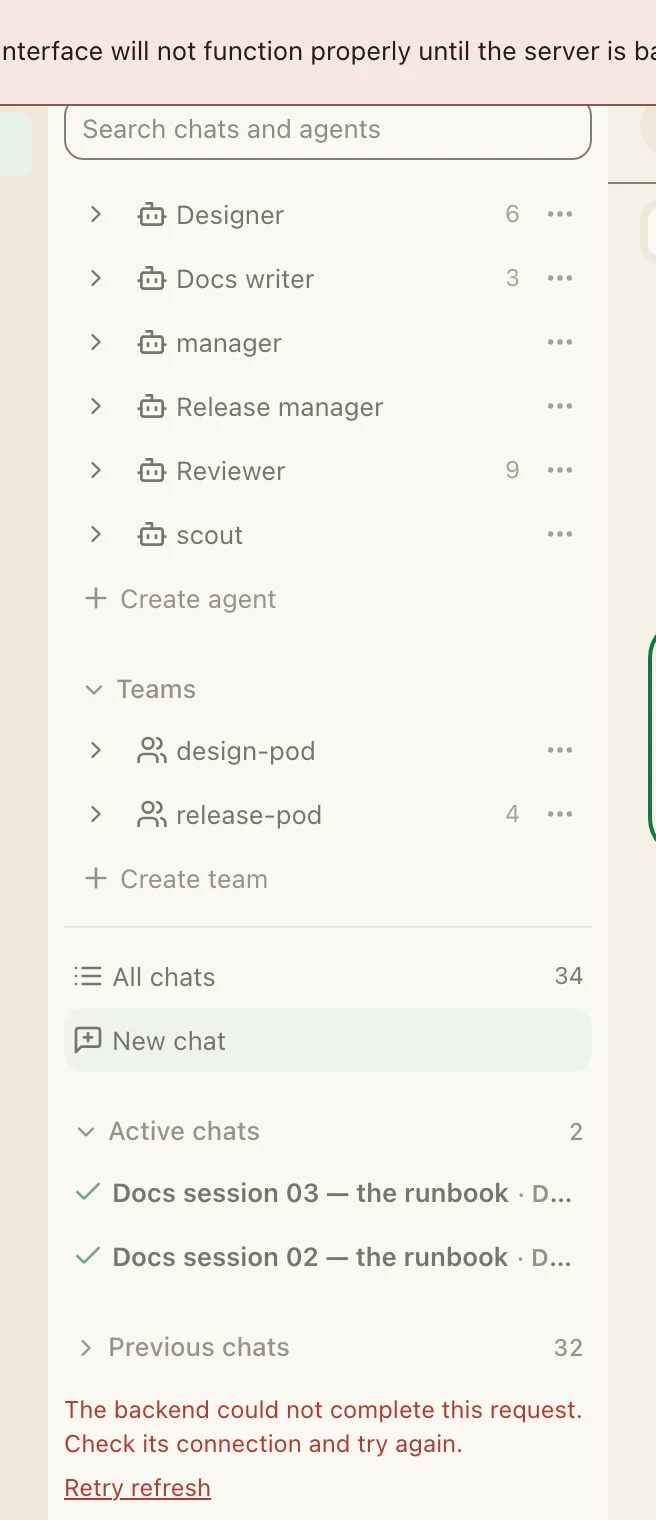
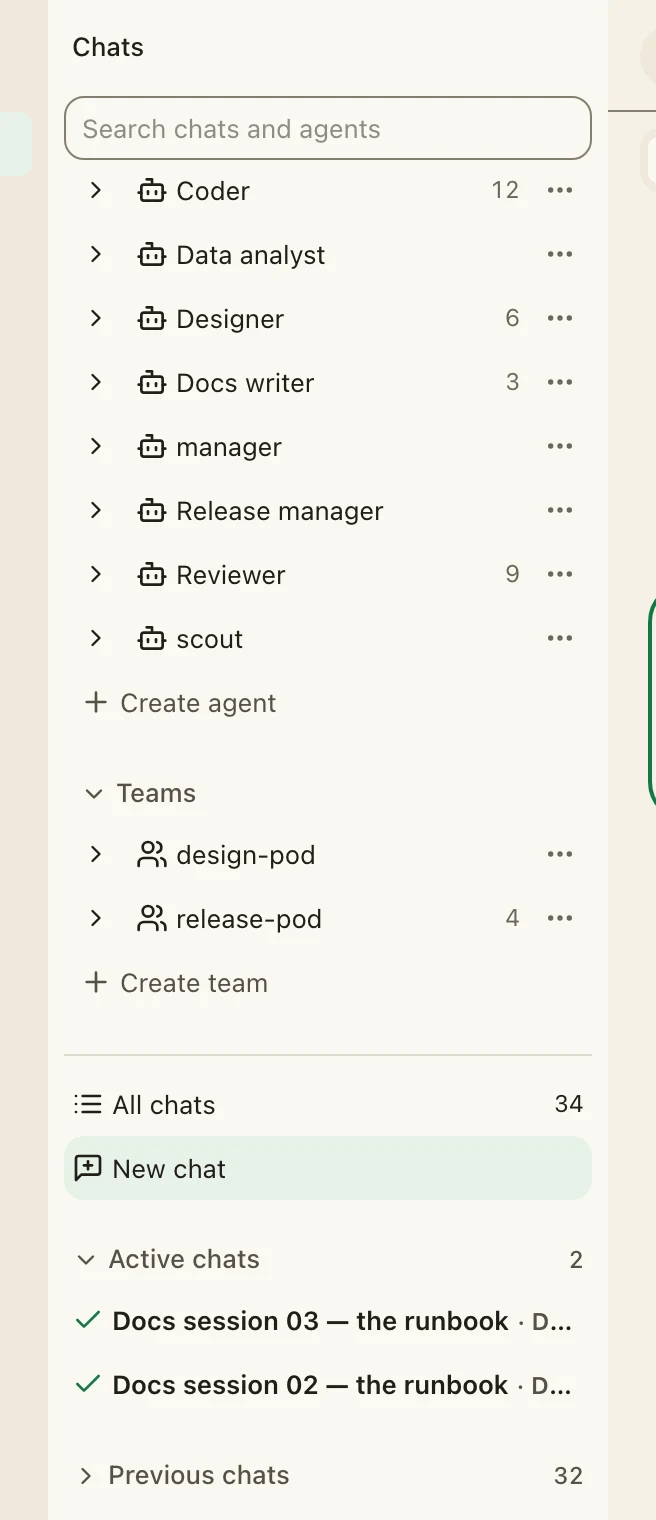
docs(evidence): re-capture the New chat row's light states, healthy
Two light-theme frames were published with the isolated backend down: the
sidebar carried "The backend could not complete this request. ... Retry refresh"
plus the window-level connectivity banner, every list label rendered dimmed, and
the row sat at y=503.83 against 568 in the other fourteen frames because Tab-ing
to it scrolled the panel by 64.17px. Both were re-taken with the backend up, and
the whole `after` set with them, so the set is one run per theme; six of the
eight `after` frames are byte-identical to the previous revision, which is what
says the surface did not move under the re-capture.

The rig needed a real fix to get here, and it is the reason the frames were
degraded rather than merely unlucky: the app's own `connect-src` CSP admits only
ports 1111 and 8080, so a cross-origin fetch to an isolated backend on any other
port is refused by the page - and the first thing the app fetches that way is
`/health`, which `useConnectivityStatus` polls every 5s. Unanswered, it raises
the connectivity banner for the whole run. The dev server now answers `/health`
on the dev origin by proxying it to this harness's backend, the same way
`desktopProxyPlugin` proxies `/__desktop`; every other call still reaches the
isolated backend, and the banner still tracks the backend the frames depend on.

The README's comparability claims are restated to what the set's own readback
supports: the row is at y=568 in all sixteen frames and the panel is unscrolled
[…]

diff --git a/docs/evidence/new-chat-row/README.md b/docs/evidence/new-chat-row/README.md
@@ -67,11 +67,18 @@ traversal are real `Input.dispatchKeyEvent`s too.
   comment records the measurement that disproved the earlier claim). The
   readback records `disabled: false` on the row in every state rather than
   faking the frame.
-- **Note on the scroll position.** The focus and current frames show the sidebar
-  scrolled a little, because Tab-ing to the row scrolls it into view. That is
-  the browser doing what a keyboard user's browser does; every before/after pair
-  is captured by the same script and carries the same scroll, so the pair stays
-  comparable.
+- **Note on the scroll position.** The focus and current frames are taken after
+  a Tab walk, and Tab scrolls the sidebar's own list region to keep the focused
+  row in view. That is the browser doing what a keyboard user's browser does,
+  and it happens in the before and after sets alike because the walk is the
+  same script. What the alignment rests on is not scrolled in ANY of the
+  sixteen committed frames: the New chat row's own box is at `y=568` in every
+  one of them, and the pinned partition the row lives in reports a scroll
+  offset of `0` in every frame of the re-captured set. An earlier revision of
+  this note stated the scroll as one set-wide fact ("every before/after pair …
+  carries the same scroll"), which the set's own readback contradicted — the two
+  light state frames were captured with the backend down and their row sat at
+  `y=503.83` against `568` everywhere else (review finding M3).
 
 ## Before / after
 
@@ -83,7 +90,7 @@ pane is cropped out.
 | State | Before | After |
 | --- | --- | --- |
 | The block at rest | [`before-sidebar-rest`](before-sidebar-rest/localOperatorDark.webp) — the New chat row is a rounded `border-control` pill | [`after-sidebar-rest`](after-sidebar-rest/localOperatorDark.webp) — plain row, icon and label on the All chats column |
-| New chat hovered | [`before-new-chat-hover`](before-new-chat-hover/localOperatorDark.webp) | [`after-new-chat-hover`](after-new-chat-hover/localOperatorDark.webp) — same colour step, `bg-elevated`, with the pill's edge also stepped |
+| New chat hovered | [`before-new-chat-hover`](before-new-chat-hover/localOperatorDark.webp) — the same colour step on the pill | [`after-new-chat-hover`](after-new-chat-hover/localOperatorDark.webp) — the same colour step on a row with no edge |
 | New chat focused | [`before-new-chat-focus`](before-new-chat-focus/localOperatorDark.webp) | [`after-new-chat-focus`](after-new-chat-focus/localOperatorDark.webp) — the `2px solid` accent outline and its `2px` offset still clear the row |
 | New chat current | [`before-new-chat-current`](before-new-chat-current/localOperatorDark.webp) — after a real Enter | [`after-new-chat-current`](after-new-chat-current/localOperatorDark.webp) — after a real Enter; `accent-wash` and `aria-current="page"` |
 
@@ -136,9 +143,17 @@ Pointer-free keyboard traversal, from the top of the document, with real Tab and
 arrow key events:
 
 ```
-TRAVERSAL  newChatIndex=46  before="All chats 34"  afterTab="Active chats 2"
-           backFromShiftTab="New chat"  arrowUp="All chats 34"  arrowDown="New chat"
+TRAVERSAL (one walk per theme, recorded per run rather than as one set-wide number)
+  after/localOperatorDark   47 stops  newChatIndex=46  before="All chats 34"  afterTab="Active chats 2"
+  after/localOperatorLight  47 stops  newChatIndex=46  before="All chats 34"  afterTab="Active chats 2"
 ```
+
+Both runs agree on the stop count and on every neighbour, and the before set's
+`47 / 46` matches them; the readback carries these fields per theme, which is
+what makes them checkable. An earlier revision quoted `newChatIndex=46` as
+though all four instrumented runs agreed, and the degraded light run did not:
+it recorded **49** stops with a `Retry` at index 0 and index 9 and
+`newChatIndex=48` (review finding M3).
 
 So the row is its own stop in the Tab order and the walk continues past it (and
 Shift+Tab comes back); and it is a stop in the sidebar's own arrow ring, where
@@ -179,10 +194,10 @@ than a focus ring.
 itself, which fails rather than writes if it finds one:
 
 ```
-after-new-chat-current/localOperatorDark.webp     a3f1bd3c8babf600
-after-new-chat-current/localOperatorLight.webp    b8d96a922f4a7484
+after-new-chat-current/localOperatorDark.webp     a98020966190a087
+after-new-chat-current/localOperatorLight.webp    be78a6b2e3510437
 after-new-chat-focus/localOperatorDark.webp       40a5bf566193a43d
-after-new-chat-focus/localOperatorLight.webp      59c68af09f4c4a3e
+after-new-chat-focus/localOperatorLight.webp      f8d6a79f72b232d4
 after-new-chat-hover/localOperatorDark.webp       d98d2bfa2ab2d5dd
 after-new-chat-hover/localOperatorLight.webp      9d9c89639a0c3607
 after-sidebar-rest/localOperatorDark.webp         a0cc7ce6ae96bf08
@@ -197,16 +212,41 @@ before-sidebar-rest/localOperatorDark.webp        f182c146d32df75d
 before-sidebar-rest/localOperatorLight.webp       aeee552c5c47f55a
 ```
 
-Both sets are also **byte-identical across two consecutive runs of the same
-script**, which is what makes the before/after pair comparable rather than
-merely similar. Getting there needed one real fix: the first pass photographed a
+The **after** set is byte-identical across two consecutive runs of the same
+script: the capture was run twice with nothing changed in between and
+`shasum -a 256` agrees on all eight digests above, which is what makes the
+before/after pair comparable rather than merely similar. A third run, taken
+after the branch was rebased onto a moved `main`, reproduced the same eight
+digests again — which is also what shows these frames are pictures of the
+tree under review rather than of the branch as it stood before the rebase.
+Stated that narrowly on purpose — an earlier revision asserted the property for
+both sets without publishing either run's digests, and the round-1 light
+`focus` and `current` frames were re-taken this round precisely because they did
+not hold it (review finding Q4). The `before` set is the single run that
+produced it and is unchanged here.
+
+Getting a clean run needed one real fix. The first pass photographed a
 half-populated sidebar, because the rows exist from the first render while the
 counts, the attention marks and the Active/Previous split arrive on later
 calls — one run had every agent row's count missing and read "Nothing running
-right now." where the next showed two active rows. The capture now waits until
-the row text is unchanged across three consecutive samples **and** the All chats
-row reads the seeded total, and asserts that total at every frame, so a frame
-taken mid-arrival fails instead of publishing.
+right now." where the next showed two active rows. The capture waits until the
+row text is unchanged across three consecutive samples **and** the All chats row
+reads the seeded total, and asserts that total at every frame.
+
+**What makes a frame publishable is now stated in the repository, not only in
+the capture script.** `scripts/new-chat-row-evidence.mjs` exports
+`assertHealthyFrame`, and the capture calls it per frame; the same function runs
+over the committed readbacks in `scripts/new-chat-row-evidence.test.mjs`, which
+is part of `pnpm test:desktop`. A frame has to show the WHOLE seeded fixture —
+`All chats 34`, `Active chats 2` and `Previous chats 32`, the two split totals
+arriving on a later desktop call than the rows — with no `[role=alert]` in the
+sidebar, none of `connectivity-banner.tsx`'s copy anywhere in the document (the
+banner renders outside the sidebar, so no sidebar-scoped check can see it), no
+`Retry` stop in the keyboard walk, and the row still at the position its own
+run's rest frame gives it. Round 1 published two frames that every check in
+force at the time passed: the cached counts still read "All chats 34" while the
+window-level banner was up and the row had been pushed 64.17px out of place.
+That recorded failure is now one of the guard's test cases.
 
 ## Re-capturing this set
 
@@ -232,10 +272,30 @@ but if it is ever lost, it has to be re-taken by hand:
    `desktopProxyPlugin`, whose own import of `../../src/main/desktop-media`
    carries no file extension, which Vite resolves and Node's ESM loader refuses
    with `ERR_MODULE_NOT_FOUND`.
-4. Capture: `node out/evidence-harness/capture.mjs http://localhost:5271
+4. Check the page before spending a run on it: `alerts: []` and a list that
+   reads the seeded totals. A run whose sidebar is carrying the window-level
+   "The server is offline…" banner is a picture of a different surface, and the
+   guard below will refuse it anyway.
+5. Capture: `node out/evidence-harness/capture.mjs http://localhost:5271
    docs/evidence/new-chat-row before|after`. Take `before` with the source tree
    at the pre-change commit (`git stash push -- <the one file>`), then `after`
    on the branch, so the pair comes from the same harness, viewport and script.
+
+**The backend's port has to be one the page's own CSP admits.**
+`src/renderer/index.html` pins `connect-src 'self' http://localhost:1111
+http://127.0.0.1:1111 … http://localhost:8080 …`, so a cross-origin `fetch` to
+an isolated backend on any other port is refused by the page — and the first
+thing the app fetches that way is `/health`, which `useConnectivityStatus` polls
+every 5s. Left unanswered it raises the window-level banner for the whole run
+(measured: `Failed to fetch`, a `connect-src` violation in the console), which is
+the same failure class as the frames this round re-took. Neither allowed port is
+free on this machine — 1111 is the operator's own backend — so
+`new-chat-row.vite.mjs` answers `/health` itself, on the dev origin, by proxying
+it to THIS harness's isolated backend, and configures
+`VITE_LOCAL_OPERATOR_API_URL` to that origin so `'self'` covers the ping. It is a
+proxy rather than a canned body so the app's "is the server there" answer stays
+the real one; every other call still reaches the isolated backend, through
+`desktopProxyPlugin`.
 
 Three pieces of persisted state must be cleared or seeded on every load, or the
 frames lie (`capture.mjs` does all three):
@@ -254,3 +314,10 @@ reaches the document and is seen by React, but does not trigger the browser's
 default activation, so the current-draft frame silently comes back at rest. And
 the animation-freeze stylesheet is lifted before every read, so the reported
 `transition` is the row's own rather than the sheet's.
+
+The capture exits non-zero instead of writing a frame it cannot stand behind:
+`assertHealthyFrame` (`scripts/new-chat-row-evidence.mjs`) is called on every
+frame with the run's own rest position as the baseline, so a run that loses the
+backend mid-walk fails at the frame rather than publishing the set. The test
+beside it, `scripts/new-chat-row-evidence.test.mjs`, checks the same function
+against the round-1 failure and against the committed readbacks.
